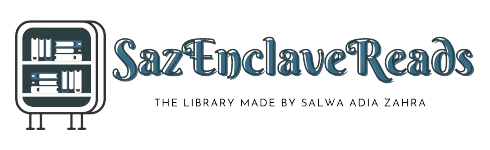
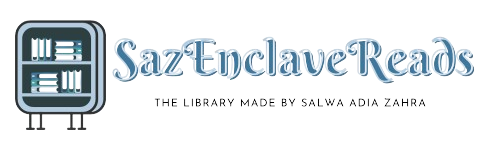
update error

Changed region(s): [[0.0306, 0.1333, 0.9796, 0.7467]]

diff --git a/public/assets/css/argon.css b/public/assets/css/argon.css
@@ -8769,7 +8769,7 @@ a.close.disabled
 
 .bg-primary
 {
-    background-color: #2E3F42 !important;
+    background-color: #3F779D !important;
 }
 
 a.bg-primary:hover,
@@ -8873,7 +8873,7 @@ button.bg-dark:focus
 
 .bg-default
 {
-    background-color: #172b4d !important;
+    background-color: #B4CCE0 !important;
 }
 
 a.bg-default:hover,
@@ -24153,7 +24153,7 @@ button.bg-lighter:focus
 
 .bg-gradient-primary
 {
-    background: linear-gradient(87deg, #2E3F42 0, #825ee4 100%) !important;
+    background: linear-gradient(87deg, #499FA4 0, #3F779D 100%) !important;
 }
 
 .bg-gradient-secondary
@@ -24213,7 +24213,7 @@ button.bg-lighter:focus
 
 .bg-gradient-blue
 {
-    background: linear-gradient(87deg, #4682B4 0, #825ee4 100%) !important;
+    background: linear-gradient(87deg, #499FA4 0, #3F779D 100%) !important;
 }
 
 .bg-gradient-indigo
@@ -24509,7 +24509,7 @@ button.section-darker:focus
 
 .bg-gradient-primary
 {
-    background: linear-gradient(87deg, #4682B4 0, #825ee4 100%) !important;
+    background: linear-gradient(87deg, #499FA4 0, #3F779D 100%) !important;
 }
 
 .bg-gradient-secondary
@@ -24649,7 +24649,7 @@ button.section-darker:focus
 
 .fill-default
 {
-    fill: #172b4d;
+    fill: #B4CCE0;
 }
 
 .stroke-default

diff --git a/resources/views/dashboard/buku-user/index.blade.php b/resources/views/dashboard/buku-user/index.blade.php
@@ -135,15 +135,19 @@
                                                 <p class="card-text">Kategori: {{ $buku->kategoriBuku->nama_kategori }}</p>
                                             @endif
 
-                                            <form action="{{ route('buku.ajukan-peminjaman', $buku->buku_id) }}" method="POST">
-                                                @csrf
-                                                <button type="submit" class="btn btn-success mb-2">Ajukan Peminjaman</button>
-                                            </form>
+                                            <div class="d-flex justify-content-center mt-2">
+                                                <form action="{{ route('buku.ajukan-peminjaman', $buku->buku_id) }}" method="POST">
+                                                    @csrf
+                                                    <button type="submit" class="btn btn-success mx-1">
+                                                        <i class="fas fa-check"></i>
+                                                    </button>
+                                                </form>
 
-                                            <!-- Tombol "Tambah ke Koleksi Saya" dan Modal -->
-                                            <button type="button" class="btn btn-primary" data-toggle="modal" data-target="#addToCollectionModal{{ $buku->id }}">
-                                                Tambahkan ke Koleksi Saya
-                                            </button>
+                                                <!-- Tombol "Tambah ke Koleksi Saya" dan Modal -->
+                                                <button type="button" class="btn btn-primary mx-2" data-toggle="modal" data-target="#addToCollectionModal{{ $buku->id }}">
+                                                    <i class="fas fa-plus"></i> 
+                                                </button>
+                                            </div>
 
                                             <!-- Modal -->
                                             <div class="modal fade" id="addToCollectionModal{{ $buku->id }}" tabindex="-1" role="dialog" aria-labelledby="addToCollectionModalLabel{{ $buku->id }}" aria-hidden="true">

diff --git a/resources/views/dashboard/users/index.blade.php b/resources/views/dashboard/users/index.blade.php
@@ -22,9 +22,11 @@
                             <thead>
                                 <tr>
                                     <th>No</th>
+                                    <th>Username</th>
                                     <th>Name</th>
                                     <th>Email</th>
                                     <th>Role</th>
+                                    <th>Alamat</th>
                                     <th>Avatar</th>
                                     <th>Aksi</th>
                                 </tr>
@@ -33,11 +35,11 @@
                                 @forelse ($users as $user)
                                     <tr>
                                         <td>{{ $loop->iteration }}</td>
+                                        <td>{{ $user->username }}</td>
                                         <td>{{ $user->name }}</td>
                                         <td>{{ $user->email }}</td>
-                                        <td>
-                                            {{ str()->title($user->role) }}
-                                        </td>
+                                        <td>{{ str()->title($user->role) }}</td>
+                                        <td>{{ $user->alamat }}</td>
                                         <td>
                                             <img src="{{ asset('/uploads/images/'.$user->avatar) }}" alt="{{ $user->name }}" width="100">
                                         </td>
@@ -58,7 +60,7 @@
                             </tbody>
                             <tfoot>
                                 <tr>
-                                    <th colspan="4">
+                                    <th colspan="5">
                                         {{ $users->links() }}
                                     </th>
                                 </tr>

diff --git a/resources/views/dashboard/koleksipribadi/index.blade.php b/resources/views/dashboard/koleksipribadi/index.blade.php
@@ -32,12 +32,11 @@
                                         <td>{{ $item->buku->penerbit }}</td>
                                         <td>
                                             <!-- Tombol Hapus -->
-                                            <form action="{{ route('koleksi.hapus', $item->id) }}" method="POST">
-                                                @csrf
-                                                @method('DELETE')
-                                                <button type="submit" class="btn btn-danger">Hapus</button>
-                                            </form>
-
+                                            <form action="{{ route('koleksi.hapus', $item->koleksi_id) }}" method="POST" id="delete-form-{{ $item->koleksi_id }}">
+                                                    @csrf
+                                                    @method('DELETE')
+                                                    <button type="button" class="btn btn-danger" onclick="deleteForm('{{ $item->koleksi_id }}')">Hapus</button>
+                                                </form>
                                         </td>
                                     </tr>
                                 @empty
@@ -53,3 +52,21 @@
         </div>
     </div>
 @endsection
+
+<script>
+    function deleteForm(id) {
+        Swal.fire({
+            title: 'Hapus data',
+            text: "Anda akan menghapus data!",
+            icon: 'warning',
+            showCancelButton: true,
+            confirmButtonColor: '#3085d6',
+            cancelButtonColor: '#d33',
+            cancelButtonText: 'Batal!'
+        }).then((result) => {
+            if (result.isConfirmed) {
+                $(`#delete-form-${id}`).submit();
+            }
+        });
+    }
+</script>

diff --git a/resources/views/dashboard/buku/index.blade.php b/resources/views/dashboard/buku/index.blade.php
@@ -52,14 +52,15 @@
                                         @endif
                                         </td>
                                         <td>
-                                            <a href="{{ route('buku.edit', $buku->buku_id) }}" class="btn btn-warning btn-sm">Edit</a>
+                                            <a href="{{ route('buku.edit', $buku->buku_id) }}" class="btn btn-warning btn-sm"><i class="fas fa-edit"></i></a>
+                                            
                                             {{-- Tampilkan tombol hapus hanya untuk admin --}}
                                             @if (Auth::user()->role == 'admin' || Auth::user()->role == 'petugas')
                                                 <form id="delete-form-{{ $buku->buku_id }}" action="{{ route('buku.destroy', $buku->buku_id) }}" class="d-inline" method="post">
                                                     @csrf
                                                     @method('DELETE')
                                                 </form>
-                                                <button onclick="deleteForm('{{ $buku->buku_id }}')" class="btn btn-danger btn-sm">Hapus</button>
+                                                <button onclick="deleteForm('{{ $buku->buku_id }}')" class="btn btn-danger btn-sm"><i class="fas fa-trash-alt"></i></button>
                                             @endif
                                             
                                         </td>

diff --git a/resources/views/dashboard/kategori/kategori_admin.blade.php b/resources/views/dashboard/kategori/kategori_admin.blade.php
@@ -35,14 +35,14 @@
                                         <td>{{ $loop->iteration }}</td>
                                         <td>{{ $kategori->nama_kategori }}</td>
                                         <td>
-                                        <a href="{{ route('kategori.edit', ['kategori_id' => $kategori->kategori_id]) }}" class="btn btn-warning btn-sm">Edit</a>
+                                        <a href="{{ route('kategori.edit', ['kategori_id' => $kategori->kategori_id]) }}" class="btn btn-warning btn-sm"><i class="fas fa-edit"></i></a>
 
                                             @if (Auth::user()->role == 'admin' || Auth::user()->role == 'petugas')
                                                 <form id="delete-form-{{ $kategori->kategori_id }}" action="{{ route('kategori.destroy', $kategori->kategori_id) }}" class="d-inline" method="post">
                                                     @csrf
                                                     @method('DELETE')
                                                 </form>
-                                                <button onclick="deleteForm('{{ $kategori->kategori_id }}')" class="btn btn-danger btn-sm">Hapus</button>
+                                                <button onclick="deleteForm('{{ $kategori->kategori_id }}')" class="btn btn-danger btn-sm"><i class="fas fa-trash-alt"></i></button>
                                             @endif
 
                                         </td>

diff --git a/app/Http/Controllers/BukuController.php b/app/Http/Controllers/BukuController.php
@@ -127,7 +127,7 @@ class BukuController extends Controller
         'user_id' => auth()->id(),
         'buku_id' => $bukuId,
         'tanggal_peminjaman' => now(),
-        'tanggal_pengembalian' => now()->addDays(14), // Contoh: batas peminjaman 14 hari
+        'tanggal_pengembalian' => now()->addDays(5), // Contoh: batas peminjaman 14 hari
         'status_peminjaman' => 'Diajukan',
     ]);
 
@@ -154,13 +154,13 @@ class BukuController extends Controller
     public function tambahKeKoleksi($buku_id)
     {
         $buku = Buku::find($buku_id);
-    
+
         if (!$buku) {
             return redirect()->back()->with('error', 'Buku tidak ditemukan');
         }
     
         // Cek apakah buku sudah ada di koleksi pribadi pengguna
-        $existingCollection = KoleksiPribadi::where('user_id', Auth::user_id())
+        $existingCollection = KoleksiPribadi::where('user_id', Auth::user()->user_id)
             ->where('buku_id', $buku->buku_id)
             ->first();
     
@@ -170,7 +170,7 @@ class BukuController extends Controller
     
         // Tambahkan buku ke koleksi pribadi
         KoleksiPribadi::create([
-            'user_id' => Auth::user_id(),
+            'user_id' => Auth::user()->user_id,
             'buku_id' => $buku->buku_id,
             // Anda bisa menambahkan data tambahan jika diperlukan
         ]);

diff --git a/resources/views/layouts/auth.blade.php b/resources/views/layouts/auth.blade.php
@@ -46,7 +46,7 @@
     <nav id="navbar-main" class="navbar navbar-horizontal navbar-transparent navbar-main navbar-expand-lg navbar-light">
         <div class="container">
             <a class="navbar-brand" href="{{ route('login') }}">
-                <img src="{{ asset('/assets/img/brand/white.png') }}">
+                <img src="{{ asset('/assets/img/brand/blue.png') }}">
             </a>
             <button class="navbar-toggler" type="button" data-toggle="collapse" data-target="#navbar-collapse"
                 aria-controls="navbar-collapse" aria-expanded="false" aria-label="Toggle navigation">
@@ -125,8 +125,8 @@
             <div class="row align-items-center justify-content-xl-between">
                 <div class="col-xl-6">
                     <div class="copyright text-center text-xl-left text-muted">
-                        &copy; {{ date('Y') }} <a href="https://www.creative-tim.com" class="font-weight-bold ml-1"
-                            target="_blank">Creative Tim</a>
+                        &copy; {{ date('Y') }} <a href="https://www.linkedin.com/in/salwa-adia-zahra-06153028a/?originalSubdomain=id" class="font-weight-bold ml-1"
+                            target="_blank">Salwa Adia Zahra</a>
                     </div>
                 </div>
             </div>

diff --git a/app/Http/Controllers/KoleksiPribadiController.php b/app/Http/Controllers/KoleksiPribadiController.php
@@ -14,7 +14,7 @@ class KoleksiPribadiController extends Controller
      */
     public function index()
     {
-        $koleksiPribadi = KoleksiPribadi::where('user_id', auth()->user()->id)
+        $koleksiPribadi = KoleksiPribadi::where('user_id', auth()->user()->user_id)
             ->with('buku')
             ->get();
 
@@ -82,10 +82,10 @@ class KoleksiPribadiController extends Controller
      * @param  \App\Models\KoleksiPribadi  $koleksiPribadi
      * @return \Illuminate\Http\Response
      */
-    public function hapus($id)
+    public function hapus($koleksi_id)
     {
         // Hapus item dari koleksi pribadi
-        $koleksiPribadi = KoleksiPribadi::where('id', $id)->delete();
+        $koleksiPribadi = KoleksiPribadi::where('koleksi_id', $koleksi_id)->delete();
     
         // Redirect atau tampilkan pesan sukses
         return redirect()->route('koleksipribadi.index')->with('success', 'Item dihapus dari koleksi pribadi.');

diff --git a/resources/views/layouts/app.blade.php b/resources/views/layouts/app.blade.php
@@ -191,8 +191,8 @@
                 <div class="row align-items-center justify-content-lg-between">
                     <div class="col-lg-6">
                         <div class="copyright text-center  text-lg-left  text-muted">
-                            &copy; {{ date('Y') }} <a href="https://www.creative-tim.com"
-                                class="font-weight-bold ml-1" target="_blank">Creative Tim</a>
+                            &copy; {{ date('Y') }} <a href="https://www.linkedin.com/in/salwa-adia-zahra-06153028a/?originalSubdomain=id"
+                                class="font-weight-bold ml-1" target="_blank">Salwa Adia Zahra</a>
                         </div>
                     </div>
                 </div>

diff --git a/routes/web.php b/routes/web.php
@@ -68,7 +68,7 @@ Route::middleware('auth')->group(function() {
     Route::get('/admin/ulasan', [UlasanBukuController::class, 'ulasanAdmin'])->name('ulasan.admin');
 
     Route::get('/dashboard/koleksipribadi', [KoleksiPribadiController::class, 'index'])->name('koleksipribadi.index');
-    Route::delete('/koleksi/{id}/hapus', [KoleksiPribadiController::class, 'hapus'])->name('koleksi.hapus');
+    Route::delete('/koleksi/{koleksi_id}/hapus', [KoleksiPribadiController::class, 'hapus'])->name('koleksi.hapus');
 
     Route::get('/kategori', [KategoriBukuController::class, 'indexUser'])->name('kategori.user');
     Route::get('/admin/kategori', [KategoriBukuController::class, 'indexAdmin'])->name('kategori.admin');

diff --git a/database/seeders/UserSeeder.php b/database/seeders/UserSeeder.php
@@ -30,7 +30,7 @@ class UserSeeder extends Seeder
                 'user_id' => 'P001',
                 'username' => 'petugas',
                 'name' => 'petugas',
-                'email' => 'user@mail.com',
+                'email' => 'petugas@mail.com',
                 'password' => Hash::make('password'),
                 'role' => 'petugas',
                 'alamat' => 'rumah',
